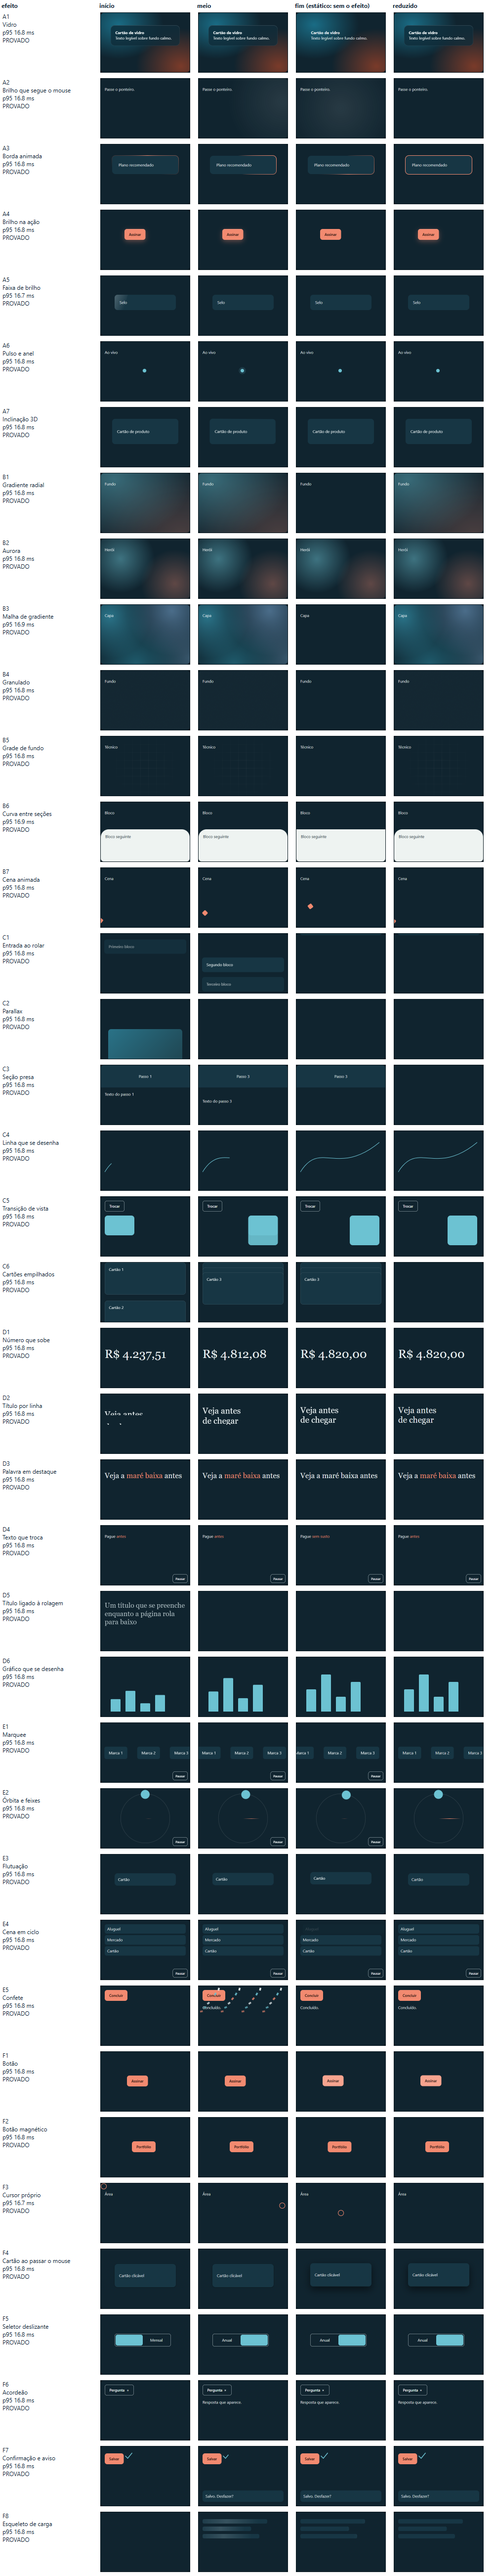
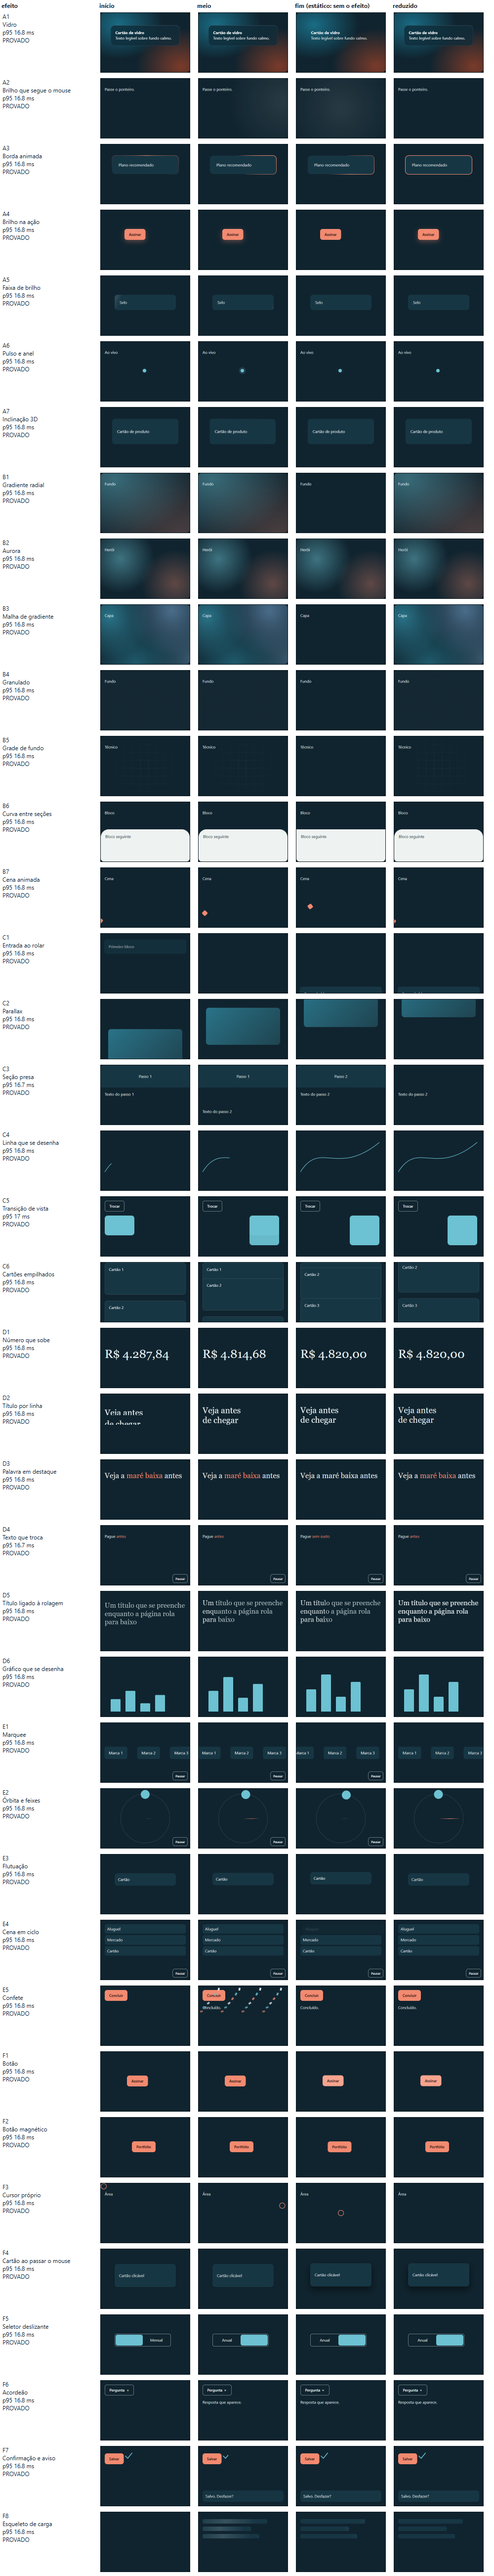
0.8.0 sites: quadro de provas dos 39 efeitos, com controles da bancada; receitas usadas na página marcadas

Changed region(s): [[0.403, 0.3732, 0.589, 0.4043], [0.806, 0.3732, 0.961, 0.4043], [0.62, 0.3732, 0.775, 0.4043]]

diff --git a/docs/provas/0.8.0-sites/provar.js b/docs/provas/0.8.0-sites/provar.js
@@ -44,10 +44,12 @@ async function abrirEdge() {
     if (m.method === 'Log.entryAdded' && m.params.entry.level === 'error') erros.push(m.params.entry.text);
     if (m.method === 'Runtime.consoleAPICalled' && m.params.type === 'error') erros.push('console.error');
   };
+  // Conexão caiu: falha alto, em vez de deixar a promessa pendente e o Node sair calado com código 0.
+  ws.onclose = () => { for (const { erro } of pend.values()) erro(new Error('conexão com o Edge caiu')); pend.clear(); };
   const cdp = (metodo, params = {}) => new Promise((ok, erro) => { const id = ++seq; pend.set(id, { ok, erro }); ws.send(JSON.stringify({ id, method: metodo, params })); });
   await cdp('Page.enable'); await cdp('Runtime.enable'); await cdp('Log.enable');
   const ev = async (expr) => { const r = await cdp('Runtime.evaluate', { expression: expr, awaitPromise: true, returnByValue: true }); if (r.exceptionDetails) throw new Error(`${expr.slice(0, 80)}: ${r.exceptionDetails.exception ? r.exceptionDetails.exception.description : r.exceptionDetails.text}`); return r.result.value; };
-  const fechar = async () => { try { await cdp('Browser.close'); } catch (e) { /* já fechou */ } try { ws.close(); } catch (e) { /* idem */ } await espera(500); try { proc.kill(); } catch (e) { /* idem */ } await espera(300); try { fs.rmSync(perfil, { recursive: true, force: true }); } catch (e) { /* trava de arquivo no Windows */ } };
+  const fechar = async () => { try { await Promise.race([cdp('Browser.close'), espera(3000)]); } catch (e) { /* já fechou */ } try { ws.close(); } catch (e) { /* idem */ } await espera(500); try { proc.kill(); } catch (e) { /* idem */ } await espera(300); try { fs.rmSync(perfil, { recursive: true, force: true }); } catch (e) { /* trava de arquivo no Windows */ } };
   const versao = (await cdp('Browser.getVersion')).product;
   return { cdp, ev, erros, fechar, versao };
 }
@@ -333,7 +335,7 @@ async function provarEfeitos() {
   const t0 = Date.now(); let b = await abrirEdge(); const url = urlDe(path.join(AQUI, 'bancada-efeitos.html'));
   const preparar = async (fm, freio) => { await janela(b, 390, 844); await midia(b, fm); await ir(b, url); if (freio) await b.cdp('Emulation.setCPUThrottlingRate', { rate: 4 }); };
   let usados = 0;
-  const talvezNovo = async (fm, freio) => { if (++usados > 8) { usados = 1; await b.fechar(); b = await abrirEdge(); await preparar(fm, freio); } };
+  const talvezNovo = async (fm, freio) => { if (++usados > 8) { usados = 1; await b.fechar(); b = await abrirEdge(); await preparar(fm, freio); await espera(500); } };
   await janela(b, 390, 844); await midia(b, []); await ir(b, url);
   const lista = await b.ev('bancada.ids()');
   const saida = []; const quadros = {};
@@ -392,7 +394,7 @@ async function provarEfeitos() {
     await mouse(b, 2, 840); await b.ev(`bancada.ativar(${j})`); await espera(60);
     const c = await b.ev(`bancada.centro(${j})`); const clip = clipDe(c);
     await interagir(b, r, 400);
-    await espera(250); const f1 = await foto(b, clip); await espera(450); const f2 = await foto(b, clip);
+    await espera(600); const f1 = await foto(b, clip); await espera(450); const f2 = await foto(b, clip);
     const rod = await b.ev('bancada.rodando()');
     const txt = await b.ev(`bancada.texto(${j})`);
     r.reduzido_ok = f1.equals(f2) && rod === 0 && txt === 0; r.reduzido_rodando = rod; r.reduzido_texto_invisivel = txt;
@@ -412,10 +414,12 @@ async function provarEfeitos() {
   // Controles: a medida de quadros, o "mexeu" e o "reduzido" têm de falhar no caso errado.
   await b.fechar(); b = await abrirEdge();
   const controles = [];
-  await janela(b, 390, 844); await midia(b, []); await ir(b, url); await b.cdp('Emulation.setCPUThrottlingRate', { rate: 4 });
-  await b.ev(`bancada.ativar('A3'); (function q(){var t=performance.now();while(performance.now()-t<12){} requestAnimationFrame(q)})()`);
+  await janela(b, 390, 844); await midia(b, []); await ir(b, url);
+  await b.ev(`window.__voltas=(function(){var n=0,t=performance.now();while(performance.now()-t<12){n++}return n})()`);
+  await b.cdp('Emulation.setCPUThrottlingRate', { rate: 4 });
+  await b.ev(`bancada.ativar('A3'); (function q(){var x=0;for(var i=0;i<__voltas;i++){x+=performance.now()}requestAnimationFrame(q)})()`);
   const qc = await b.ev('bancada.medir(1500)');
-  controles.push({ nome: 'carga de 12 ms por quadro na linha principal (só passa de 34 ms se a CPU estiver freada)', p95_ms: +qc.p95.toFixed(1), pegou: qc.p95 > 34 });
+  controles.push({ nome: 'carga de 12 ms por quadro (medida sem freio) na linha principal: só passa de 34 ms se a CPU estiver freada', p95_ms: +qc.p95.toFixed(1), pegou: qc.p95 > 34 });
   await b.fechar(); b = await abrirEdge();
   await janela(b, 390, 844); await midia(b, []); await ir(b, url); await b.cdp('Emulation.setCPUThrottlingRate', { rate: 4 });
   await b.ev(`(function(){var d=document.createElement('div');d.style.cssText='position:fixed;inset:0;background:linear-gradient(#2a7388,#7a3b2a)';document.body.appendChild(d);d.animate([{filter:'blur(0px)'},{filter:'blur(40px)'}],{duration:800,iterations:Infinity,direction:'alternate'})})()`);
@@ -463,7 +467,7 @@ ${provados} de ${IDS.length} efeitos passaram na bancada (\`docs/provas/0.8.0-si
 \`prefers-reduced-motion\`, teve pausa quando o catálogo exige, 0 erro de JS e p95 do quadro até 34 ms na condição acima.
 **Controles:** ${(res.efeitos_controles || []).map((c) => `${c.nome}: ${c.p95_ms !== undefined ? c.p95_ms + ' ms, ' : ''}${c.informativo ? (c.pegou ? 'a medida subiu' : 'a medida não subiu: custo de pintura não aparece aqui') : (c.pegou ? 'pegou' : 'NÃO pegou')}`).join('; ') || '—'}.
 **Não prova:** aparelho real, GPU, bateria, nem o restante da faixa do catálogo, que continua [ESTIMATIVA: ponto de partida
-nosso]. Quadro por \`requestAnimationFrame\` mede a linha principal, não o compositor. Teclado e leitor de tela: só o
+nosso]. Quadro por \`requestAnimationFrame\` sobe com carga na linha principal; com pintura cara, o controle de desfoque variou entre rodadas (49,9 e 16,8 ms), então **custo de pintura e de compositor não está medido**: vidro, aurora e sombra precisam de aparelho real. Teclado e leitor de tela: só o
 que está na página de prova (\`site-preamar.html\`), não em cada efeito. Os avançados do grupo G não foram construídos.
 
 | Efeito | Nome | Situação | Valor usado | p95 do quadro | Reduzido testado | Propriedades animadas |

diff --git a/docs/provas/0.8.0-sites/bancada-efeitos.html b/docs/provas/0.8.0-sites/bancada-efeitos.html
@@ -199,7 +199,7 @@ body { margin: 0; background: #0b1a22; color: var(--t); font: 16px/1.4 "Segoe UI
   var ini = {
     A2: function () { var p = q('A2', '.palco'); if (RM.matches) return; var pend = 0; aoMover(p, function (e) { var r = p.getBoundingClientRect(); var x = e.clientX - r.left, y = e.clientY - r.top; p.classList.add('perto'); if (pend) return; pend = requestAnimationFrame(function () { pend = 0; p.style.setProperty('--x', x + 'px'); p.style.setProperty('--y', y + 'px'); }); }); },
     A7: function () { var c = q('A7', '.cart'), p = q('A7', '.palco'); if (RM.matches) return; aoMover(p, function (e) { var r = p.getBoundingClientRect(); var dx = (e.clientX - r.left) / r.width - .5, dy = (e.clientY - r.top) / r.height - .5; c.style.transform = 'rotateY(' + (dx * 12).toFixed(2) + 'deg) rotateX(' + (-dy * 12).toFixed(2) + 'deg)'; }); },
-    C1: function () { var s = document.getElementById('C1'); if (RM.matches) return; var r = s.querySelector('.rola'); s.classList.add('js-entra'); var io = new IntersectionObserver(function (es) { es.forEach(function (e) { if (e.isIntersecting) { e.target.classList.add('v'); io.unobserve(e.target); } }); }, { root: r }); s.querySelectorAll('.item').forEach(function (i) { i.classList.remove('v'); io.observe(i); }); limpa.push(function () { io.disconnect(); s.classList.remove('js-entra'); }); },
+    C1: function () { var s = document.getElementById('C1'); if (RM.matches) return; var r = s.querySelector('.rola'); s.classList.add('js-entra'); var io = new IntersectionObserver(function (es) { es.forEach(function (e) { if (e.isIntersecting) { e.target.classList.add('v'); io.unobserve(e.target); } }); }, { root: r, rootMargin: '0px 0px 120px 0px' }); s.querySelectorAll('.item').forEach(function (i) { i.classList.remove('v'); io.observe(i); }); limpa.push(function () { io.disconnect(); s.classList.remove('js-entra'); }); },
     C2: function () { var r = q('C2', '.rola'), f = q('C2', '.fig'); if (RM.matches) return; var p = 0; var ao = function () { if (p) return; p = requestAnimationFrame(function () { p = 0; f.style.transform = 'translateY(' + Math.min(r.scrollTop * .2, 100).toFixed(1) + 'px)'; }); }; r.addEventListener('scroll', ao, { passive: true }); limpa.push(function () { r.removeEventListener('scroll', ao); }); },
     C3: function () { var r = q('C3', '.rola'), v = document.getElementById('c3v'); var io = new IntersectionObserver(function (es) { es.forEach(function (e) { if (e.isIntersecting) v.textContent = 'Passo ' + e.target.dataset.p; }); }, { root: r, rootMargin: '-45% 0px -45% 0px' }); r.querySelectorAll('.passo').forEach(function (p) { io.observe(p); }); limpa.push(function () { io.disconnect(); }); },
     C4: function () { if (!RM.matches) document.getElementById('C4').classList.add('corre'); limpa.push(function () { document.getElementById('C4').classList.remove('corre'); }); },

diff --git a/conhecimento/design/sites-premium/efeitos/provas.md b/conhecimento/design/sites-premium/efeitos/provas.md
@@ -1,0 +1,56 @@
+<!-- Texto próprio do agentes-ultimate. Gerado por docs/provas/0.8.0-sites/provar.js a partir de resultado.json. -->
+<!-- ref: tema=efeitos-provados; palavras=prova dos efeitos, efeito provado, quadros do efeito, efeito pesa; agentes=designer-sites, engenheiro-software -->
+<!-- teste-ref: sim=este efeito pesa, qual a prova dos efeitos | mostre o efeito provado e os quadros do efeito; nao=calcule o custo médio ponderado do estoque -->
+# Efeitos: o que foi provado, com que valor
+
+39 de 39 efeitos passaram na bancada (`docs/provas/0.8.0-sites/bancada-efeitos.html`; folha de contato em `png/bancada-efeitos.png`).
+**Condição:** Edg/156.0.4314.58, sem interface, 390 px, CPU freada 4×; quadros por requestAnimationFrame em 1,5 s. Sem aparelho real.
+
+**PROVADO quer dizer:** com o valor da coluna, em código próprio, o efeito apareceu ou mexeu, ficou parado e legível com
+`prefers-reduced-motion`, teve pausa quando o catálogo exige, 0 erro de JS e p95 do quadro até 34 ms na condição acima.
+**Controles:** carga de 12 ms por quadro (medida sem freio) na linha principal: só passa de 34 ms se a CPU estiver freada: 100 ms, pegou; desfoque de 40 px animado na tela inteira (só informativo: mostra se a medida enxerga custo de pintura): 16.8 ms, a medida não subiu: custo de pintura não aparece aqui; marquee sem o ramo de movimento reduzido: pegou; marquee sem a animação (o "mexeu" tem de dar falso): pegou.
+**Não prova:** aparelho real, GPU, bateria, nem o restante da faixa do catálogo, que continua [ESTIMATIVA: ponto de partida
+nosso]. Quadro por `requestAnimationFrame` sobe com carga na linha principal; com pintura cara, o controle de desfoque variou entre rodadas (49,9 e 16,8 ms), então **custo de pintura e de compositor não está medido**: vidro, aurora e sombra precisam de aparelho real. Teclado e leitor de tela: só o
+que está na página de prova (`site-preamar.html`), não em cada efeito. Os avançados do grupo G não foram construídos.
+
+| Efeito | Nome | Situação | Valor usado | p95 do quadro | Reduzido testado | Propriedades animadas |
+|---|---|---|---|---|---|---|
+| A1 | Vidro | PROVADO | cartão a 82%, desfoque 10 px, saturação 140%, borda 10%, luz 1 px | 16.8 ms | sim | sem animação |
+| A2 | Brilho que segue o mouse | PROVADO | raio 320 px, 10%, some em 0,25 s | 16.8 ms | sim | sem animação |
+| A3 | Borda animada | PROVADO | borda 2 px, 5 s por volta, uma peça | 16.8 ms | sim | sem animação |
+| A4 | Brilho na ação | PROVADO | sombra 0 6 px 20 px a 0,38; luz interna 1 px a 0,2 | 16.8 ms | sim | sem animação |
+| A5 | Faixa de brilho | PROVADO | passa em 1,2 s, pausa de 6 s, 22% | 16.8 ms | sim | transform |
+| A6 | Pulso e anel | PROVADO | 2 s, escala até 2,5, anel a 50% | 16.8 ms | sim | opacity, transform |
+| A7 | Inclinação 3D | PROVADO | até 6°, perspectiva 1000 px, volta em 0,4 s | 16.8 ms | sim | transform |
+| B1 | Gradiente radial | PROVADO | raios 320–460 px, 25–45%, somem em 75–80% | 16.8 ms | sim | sem animação |
+| B2 | Aurora | PROVADO | 2 manchas, 20 e 28 s por ciclo, deslocamento 15% da largura | 16.8 ms | sim | transform |
+| B3 | Malha de gradiente | PROVADO | 4 radiais da mesma família | 16.8 ms | sim | sem animação |
+| B4 | Granulado | PROVADO | 5%, tela 180 px, SVG como imagem | 16.8 ms | sim | sem animação |
+| B5 | Grade de fundo | PROVADO | passo 32 px, linha 1 px a 8%, máscara radial | 16.8 ms | sim | sem animação |
+| B6 | Curva entre seções | PROVADO | raio 32 px | 16.8 ms | sim | sem animação |
+| B7 | Cena animada | PROVADO | 15 s pelo caminho, área pequena | 16.8 ms | sim | offsetDistance |
+| C1 | Entrada ao rolar | PROVADO | 24 px, 0,6 s, uma vez | 16.8 ms | sim | opacity, transform |
+| C2 | Parallax | PROVADO | 20% da rolagem, até 100 px | 16.8 ms | sim | sem animação |
+| C3 | Seção presa | PROVADO | 3 passos de 150 px | 16.7 ms | sim | sem animação |
+| C4 | Linha que se desenha | PROVADO | 1,1 s, uma vez | 16.8 ms | sim | strokeDashoffset |
+| C5 | Transição de vista | PROVADO | 0,3 s, peça com o mesmo nome | 17 ms | sim | sem animação |
+| C6 | Cartões empilhados | PROVADO | 3 cartões, 20 px de diferença | 16.8 ms | sim | sem animação |
+| D1 | Número que sobe | PROVADO | 1,2 s, começa em 85%, uma vez | 16.8 ms | sim | sem animação |
+| D2 | Título por linha | PROVADO | 0,65 s, 50 ms entre linhas | 16.8 ms | sim | transform |
+| D3 | Palavra em destaque | PROVADO | uma palavra na cor do acento, sem gradiente | 16.8 ms | sim | sem animação |
+| D4 | Texto que troca | PROVADO | 2,5 s por palavra, 3 palavras, largura reservada | 16.7 ms | sim | sem animação |
+| D5 | Título ligado à rolagem | PROVADO | texto a 2 tons, contraste já no início; animation-timeline com reserva | 16.8 ms | sim | backgroundPositionX, backgroundPositionY |
+| D6 | Gráfico que se desenha | PROVADO | 0,7 s, uma vez | 16.8 ms | sim | transform |
+| E1 | Marquee | PROVADO | 30 s por volta, conteúdo duplicado, com pausa | 16.8 ms | sim | transform |
+| E2 | Órbita e feixes | PROVADO | anel 60 s, feixe 2 s, com pausa | 16.8 ms | sim | opacity, transform |
+| E3 | Flutuação | PROVADO | 8 px, 4 s | 16.8 ms | sim | transform |
+| E4 | Cena em ciclo | PROVADO | 2 s por estado, transição 0,35 s, 3 estados, com pausa | 16.8 ms | sim | sem animação |
+| E5 | Confete | PROVADO | 24 peças, 1,2 s, só depois de um gesto | 16.8 ms | sim | opacity, transform |
+| F1 | Botão | PROVADO | −1 px em 0,16 s; apertar .98 em 0,08 s | 16.8 ms | sim | background-color, backgroundColor, transform |
+| F2 | Botão magnético | PROVADO | até 8 px, volta em 0,4 s | 16.8 ms | sim | transform |
+| F3 | Cursor próprio | PROVADO | 24 px, suavizado, cursor do sistema mantido | 16.8 ms | sim | sem animação |
+| F4 | Cartão ao passar o mouse | PROVADO | −3 px, 0,2 s | 16.8 ms | sim | box-shadow, boxShadow, transform |
+| F5 | Seletor deslizante | PROVADO | 0,25 s, rádio real | 16.8 ms | sim | transform |
+| F6 | Acordeão | PROVADO | 0,25 s, linhas de 0fr a 1fr | 16.8 ms | sim | grid-template-rows, gridTemplateRows, transform |
+| F7 | Confirmação e aviso | PROVADO | marca 0,4 s, aviso 6 s, entra em 0,3 s | 16.8 ms | sim | opacity, strokeDashoffset, transform |
+| F8 | Esqueleto de carga | PROVADO | brilho 1,6 s, aparece após 250 ms | 16.8 ms | sim | sem animação |

diff --git a/conhecimento/design/sites-premium/r16-navegacao.md b/conhecimento/design/sites-premium/r16-navegacao.md
@@ -13,3 +13,5 @@ Repertório, não molde: use, combine, corte ou vá além, a partir da direção
 - **Acessibilidade:** link "pular para o conteúdo"; `scroll-margin-top` igual à altura da barra; foco nunca oculto sob ela (WCAG 2.4.11).
 - **Erro comum:** barra transparente sem fundo ao rolar, com títulos passando por trás; somar barra de promoção e botão
   flutuante até cobrir conteúdo. **Conte as camadas fixas: no máximo 2 visíveis na dobra** e meça a área coberta (até 15–20%).
+
+**Prova:** usada na página de `docs/provas/0.8.0-sites/` (site-preamar.html); os valores escolhidos ali passaram nas checagens de `resultado.json`. A faixa acima continua [ESTIMATIVA].

diff --git a/conhecimento/design/sites-premium/r07-grade-bento.md b/conhecimento/design/sites-premium/r07-grade-bento.md
@@ -13,3 +13,5 @@ Repertório, não molde: use, combine, corte ou vá além, a partir da direção
 - **Celular:** uma coluna, ordem por importância, mini-demonstração legível (2 colunas só para peças pequenas).
 - **Acessibilidade:** ordem do DOM igual à visual; demonstração decorativa com `aria-hidden` e o valor no texto.
 - **Erro comum:** ícone + título + frase em caixas iguais não é bento, é lista. Demonstração com dado ilegível.
+
+**Prova:** usada na página de `docs/provas/0.8.0-sites/` (site-preamar.html); os valores escolhidos ali passaram nas checagens de `resultado.json`. A faixa acima continua [ESTIMATIVA].

diff --git a/conhecimento/design/sites-premium/r11-precos.md b/conhecimento/design/sites-premium/r11-precos.md
@@ -15,3 +15,5 @@ Repertório, não molde: use, combine, corte ou vá além, a partir da direção
 - **Celular:** recomendado primeiro, ou empilhado com ele em destaque; sem rolagem horizontal de tabela.
 - **Acessibilidade:** seletor como grupo de rádio; preço em texto legível por completo; preço riscado explicado.
 - **Erro comum:** esconder o total anual, ou riscar preço que nunca existiu (padrão enganoso, proibido).
+
+**Prova:** usada na página de `docs/provas/0.8.0-sites/` (site-preamar.html); os valores escolhidos ali passaram nas checagens de `resultado.json`. A faixa acima continua [ESTIMATIVA].

diff --git a/conhecimento/design/sites-premium/r23-ritmo-de-blocos.md b/conhecimento/design/sites-premium/r23-ritmo-de-blocos.md
@@ -12,3 +12,5 @@ Repertório, não molde: use, combine, corte ou vá além, a partir da direção
 - **Celular:** menos blocos invertidos colados, porque cansam mais.
 - **Acessibilidade:** recalcular contraste em cada fundo, inclusive de links e foco.
 - **Erro comum:** alternar por hábito, sem relação com o conteúdo. Aqui, fundo escuro é opção de projeto: **respeite a marca e a decisão de quem pediu.**
+
+**Prova:** usada na página de `docs/provas/0.8.0-sites/` (site-preamar.html); os valores escolhidos ali passaram nas checagens de `resultado.json`. A faixa acima continua [ESTIMATIVA].

diff --git a/conhecimento/design/sites-premium/r20-progresso.md b/conhecimento/design/sites-premium/r20-progresso.md
@@ -12,3 +12,5 @@ Repertório, não molde: use, combine, corte ou vá além, a partir da direção
 - **Celular:** célula ≥ 32 px quando for tocável, com detalhe ao tocar.
 - **Acessibilidade:** valor em texto sempre; dia do calendário com `aria-label` completo; mapa de calor com níveis distintos sem cor (ou valor).
 - **Erro comum:** vermelho e verde como único código. Rosca para comparar muitas partes.
+
+**Prova:** usada na página de `docs/provas/0.8.0-sites/` (site-preamar.html); os valores escolhidos ali passaram nas checagens de `resultado.json`. A faixa acima continua [ESTIMATIVA].

diff --git a/conhecimento/design/sites-premium/r02-heroi-com-simulacao.md b/conhecimento/design/sites-premium/r02-heroi-com-simulacao.md
@@ -13,3 +13,5 @@ Repertório, não molde: use, combine, corte ou vá além, a partir da direção
 - **Acessibilidade:** mais de 5 s em paralelo ao conteúdo exige meio de pausar (WCAG 2.2.2); nada de anúncio ao vivo a cada
   passo; `aria-hidden` no decorativo, com uma frase-resumo.
 - **Erro comum:** simulação que muda valores e parece erro ao recarregar. Animar 3 coisas ao mesmo tempo.
+
+**Prova:** usada na página de `docs/provas/0.8.0-sites/` (site-preamar.html); os valores escolhidos ali passaram nas checagens de `resultado.json`. A faixa acima continua [ESTIMATIVA].

diff --git a/conhecimento/design/sites-premium/r18-cartao-de-metrica.md b/conhecimento/design/sites-premium/r18-cartao-de-metrica.md
@@ -13,3 +13,5 @@ Repertório, não molde: use, combine, corte ou vá além, a partir da direção
 - **Celular:** valor nunca corta; abrevia antes de quebrar.
 - **Acessibilidade:** cor não é o único sinal (WCAG 1.4.1); valor completo em `aria-label` quando abreviado.
 - **Erro comum:** precisão falsa, período omitido, variação sem base de comparação.
+
+**Prova:** usada na página de `docs/provas/0.8.0-sites/` (site-preamar.html); os valores escolhidos ali passaram nas checagens de `resultado.json`. A faixa acima continua [ESTIMATIVA].

diff --git a/conhecimento/design/sites-premium/r24-atmosfera-de-fundo.md b/conhecimento/design/sites-premium/r24-atmosfera-de-fundo.md
@@ -11,3 +11,5 @@ Repertório, não molde: use, combine, corte ou vá além, a partir da direção
 - **Celular:** menos luzes, imagem leve.
 - **Acessibilidade:** nada de texto diretamente sobre a parte de maior variação.
 - **Erro comum:** violeta sobre preto com brilho: é o visual mais gasto do setor; use só se a marca for essa.
+
+**Prova:** usada na página de `docs/provas/0.8.0-sites/` (site-preamar.html); os valores escolhidos ali passaram nas checagens de `resultado.json`. A faixa acima continua [ESTIMATIVA].

diff --git a/conhecimento/design/sites-premium/r12-objecao-franca.md b/conhecimento/design/sites-premium/r12-objecao-franca.md
@@ -12,3 +12,5 @@ Repertório, não molde: use, combine, corte ou vá além, a partir da direção
 - **Celular:** uma coluna, resposta antes da imagem.
 - **Acessibilidade:** é texto comum, sem acordeão escondendo o argumento.
 - **Erro comum:** desviar da pergunta. Isso custa mais confiança que não fazer a seção.
+
+**Prova:** usada na página de `docs/provas/0.8.0-sites/` (site-preamar.html); os valores escolhidos ali passaram nas checagens de `resultado.json`. A faixa acima continua [ESTIMATIVA].
